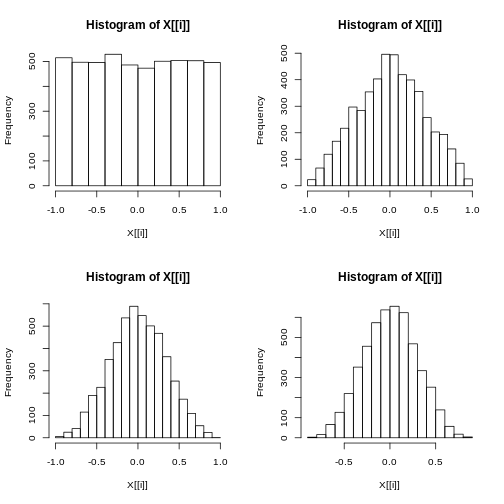
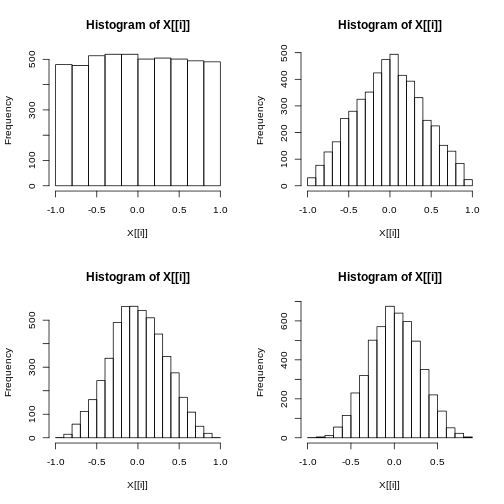
update weeks 8 and 10

diff --git a/presentations/week6.html b/presentations/week6.html
@@ -567,7 +567,7 @@ head(xsim)
 ```
 
 ```
-## [1] 68.30177 62.55908 64.84404 66.78773 64.16850 71.78121
+## [1] 65.00266 68.57784 61.08447 63.14884 65.98282 62.53087
 ```
 
 ```r
@@ -575,7 +575,7 @@ mean(xsim) #note the mean of xsim seems pretty close to the mean of the distribu
 ```
 
 ```
-## [1] 66.2177
+## [1] 65.87247
 ```
 
 ```r
@@ -583,10 +583,10 @@ sd(xsim) #and so is the standard deviation.
 ```
 
 ```
-## [1] 3.239018
+## [1] 3.106282
 ```
 **Try it on your own and see what you get.**
-
+---
 --- 
 # Simulation of the Normal Distribution
 - Remember: the statistic in and of itself is a random variable. So how do you think their means and standard deviations will behave if we sample a lot of them?
@@ -615,11 +615,11 @@ head(meansimulation);head(meansimulationloop)
 ```
 
 ```
-## [1] 64.79128 64.06178 65.14072 64.78806 65.10603 65.28598
+## [1] 64.05004 65.42210 64.56844 65.30873 65.90043 65.01402
 ```
 
 ```
-## [1] 65.24892 64.93010 64.26400 65.73934 64.37659 65.21171
+## [1] 64.93807 64.75069 64.89256 64.15106 65.60062 63.64884
 ```
 **Now that we have the simulation stored, let's do some exploring**
 ---
@@ -631,7 +631,7 @@ mean(meansimulation) #approximately 65
 ```
 
 ```
-## [1] 65.01443
+## [1] 65.03606
 ```
 
 ```r
@@ -639,7 +639,7 @@ sd(meansimulation) #this changes significantly but we will explain this later.
 ```
 
 ```
-## [1] 0.5345748
+## [1] 0.5520281
 ```
 
 ```r
@@ -740,10 +740,10 @@ lapply(meanslist,hist)
 ##  [1] -1.0 -0.8 -0.6 -0.4 -0.2  0.0  0.2  0.4  0.6  0.8  1.0
 ## 
 ## $counts
-##  [1] 515 497 496 529 486 473 501 504 503 496
+##  [1] 479 476 514 520 520 501 505 501 494 490
 ## 
 ## $density
-##  [1] 0.515 0.497 0.496 0.529 0.486 0.473 0.501 0.504 0.503 0.496
+##  [1] 0.479 0.476 0.514 0.520 0.520 0.501 0.505 0.501 0.494 0.490
 ## 
 ## $mids
 ##  [1] -0.9 -0.7 -0.5 -0.3 -0.1  0.1  0.3  0.5  0.7  0.9
@@ -763,12 +763,12 @@ lapply(meanslist,hist)
 ## [15]  0.4  0.5  0.6  0.7  0.8  0.9  1.0
 ## 
 ## $counts
-##  [1]  23  67 119 168 217 297 284 354 403 496 494 419 399 356 257 203 194
-## [18] 139  85  26
+##  [1]  30  77 127 165 253 280 325 352 424 474 494 415 393 331 246 225 152
+## [18] 130  84  23
 ## 
 ## $density
-##  [1] 0.046 0.134 0.238 0.336 0.434 0.594 0.568 0.708 0.806 0.992 0.988
-## [12] 0.838 0.798 0.712 0.514 0.406 0.388 0.278 0.170 0.052
+##  [1] 0.060 0.154 0.254 0.330 0.506 0.560 0.650 0.704 0.848 0.948 0.988
+## [12] 0.830 0.786 0.662 0.492 0.450 0.304 0.260 0.168 0.046
 ## 
 ## $mids
 ##  [1] -0.95 -0.85 -0.75 -0.65 -0.55 -0.45 -0.35 -0.25 -0.15 -0.05  0.05
@@ -789,12 +789,12 @@ lapply(meanslist,hist)
 ## [15]  0.4  0.5  0.6  0.7  0.8  0.9  1.0
 ## 
 ## $counts
-##  [1]   6  25  41 115 190 226 351 426 537 589 547 501 468 363 254 173 109
-## [18]  54  24   1
+##  [1]   1  15  58 112 162 243 338 490 558 559 541 510 441 346 276 172 109
+## [18]  49  19   1
 ## 
 ## $density
-##  [1] 0.012 0.050 0.082 0.230 0.380 0.452 0.702 0.852 1.074 1.178 1.094
-## [12] 1.002 0.936 0.726 0.508 0.346 0.218 0.108 0.048 0.002
+##  [1] 0.002 0.030 0.116 0.224 0.324 0.486 0.676 0.980 1.116 1.118 1.082
+## [12] 1.020 0.882 0.692 0.552 0.344 0.218 0.098 0.038 0.002
 ## 
 ## $mids
 ##  [1] -0.95 -0.85 -0.75 -0.65 -0.55 -0.45 -0.35 -0.25 -0.15 -0.05  0.05
@@ -811,20 +811,20 @@ lapply(meanslist,hist)
 ## 
 ## [[4]]
 ## $breaks
-##  [1] -0.9 -0.8 -0.7 -0.6 -0.5 -0.4 -0.3 -0.2 -0.1  0.0  0.1  0.2  0.3  0.4
-## [15]  0.5  0.6  0.7  0.8  0.9
+##  [1] -1.0 -0.9 -0.8 -0.7 -0.6 -0.5 -0.4 -0.3 -0.2 -0.1  0.0  0.1  0.2  0.3
+## [15]  0.4  0.5  0.6  0.7  0.8  0.9
 ## 
 ## $counts
-##  [1]   3  16  66 127 220 352 456 573 637 655 623 468 334 252 139  57  18
-## [18]   4
+##  [1]   1   4  12  55 115 230 320 501 570 675 640 596 496 350 220 137  51
+## [18]  23   4
 ## 
 ## $density
-##  [1] 0.006 0.032 0.132 0.254 0.440 0.704 0.912 1.146 1.274 1.310 1.246
-## [12] 0.936 0.668 0.504 0.278 0.114 0.036 0.008
+##  [1] 0.002 0.008 0.024 0.110 0.230 0.460 0.640 1.002 1.140 1.350 1.280
+## [12] 1.192 0.992 0.700 0.440 0.274 0.102 0.046 0.008
 ## 
 ## $mids
-##  [1] -0.85 -0.75 -0.65 -0.55 -0.45 -0.35 -0.25 -0.15 -0.05  0.05  0.15
-## [12]  0.25  0.35  0.45  0.55  0.65  0.75  0.85
+##  [1] -0.95 -0.85 -0.75 -0.65 -0.55 -0.45 -0.35 -0.25 -0.15 -0.05  0.05
+## [12]  0.15  0.25  0.35  0.45  0.55  0.65  0.75  0.85
 ## 
 ## $xname
 ## [1] "X[[i]]"
@@ -847,11 +847,11 @@ data.frame(EX = unlist(lapply(meanslist, mean)),sd = unlist(lapply(meanslist,sd)
 ```
 
 ```
-##             EX        sd      trsd
-## 1 -0.003124292 0.5782803 0.5773503
-## 2  0.013215879 0.4085331 0.4082483
-## 3  0.002656234 0.3361011 0.3333333
-## 4  0.004704582 0.2901478 0.2886751
+##              EX        sd      trsd
+## 1  0.0016859584 0.5718055 0.5773503
+## 2 -0.0049474026 0.4087197 0.4082483
+## 3 -0.0005440291 0.3320445 0.3333333
+## 4  0.0054696147 0.2856265 0.2886751
 ```
 
 ---
